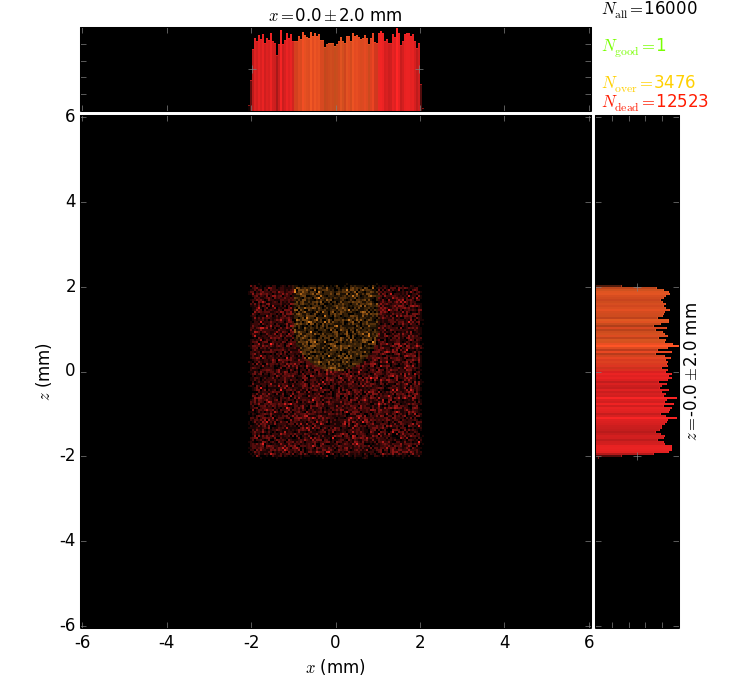
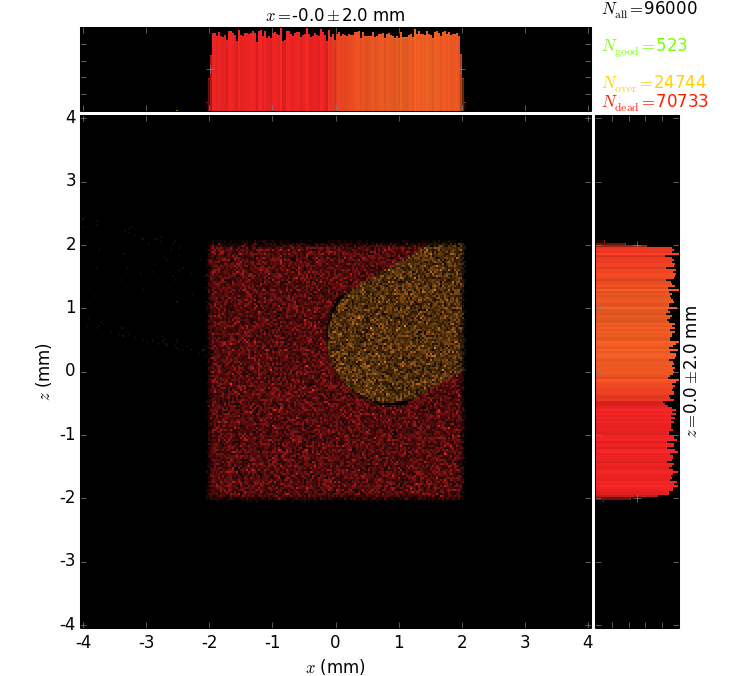
wip

diff --git a/object_testing.py b/object_testing.py
@@ -25,7 +25,7 @@ repeats = 1e4   # liczba
 E0      = 9000  # [eV]
 D_      = 40    # [mm] | constant screen position
 
-xLimits = [-6.05, 6.05] # Plot limits
+xLimits = [-4.05, 4.05] # Plot limits
 zLimits = xLimits       # axis square
 
 processes = 4 
@@ -82,7 +82,7 @@ def build_beamline(nrays=1000):
     shape = [(0.1*v[0], 0.1*v[1]) for v in shape]
 
     # Set position and thickness
-    limPhysY = [39.9, 39.95]
+    limPhysY = [35.94, 39.95]
     limPhysX = [-1.0, 1.0]
 
     # Tested material
@@ -93,7 +93,7 @@ def build_beamline(nrays=1000):
 #                   roll=0*np.pi/3., limPhysX=limPhysX)
     thing = CustomShape(beamLine, 'thing', material=mGold,\
                    R = 1.0, limPhysY=limPhysY,\
-                   roll=0*np.pi/3., limPhysX=limPhysX)
+                   roll=1*np.pi/3., limPhysX=limPhysX)
     
     # Contain
     beamLine.things.append(thing)

diff --git a/customobjects.py b/customobjects.py
@@ -9,9 +9,9 @@ class CustomShape(roe.OE):
         self.R = kwargs.pop('R', 0.5)
         roe.OE.__init__(self, *args, **kwargs)
     def local_n(self, x, y):
-        a = - x/self.R
-        b = np.zeros_like(y)
-        c = (self.R**2 - x**2)**(0.5) / self.R
+        a = 1./np.sqrt(3)
+        b = 1./np.sqrt(3)
+        c = 1./np.sqrt(3)
         return a, b, c
 
     def local_z(self, x, y):
